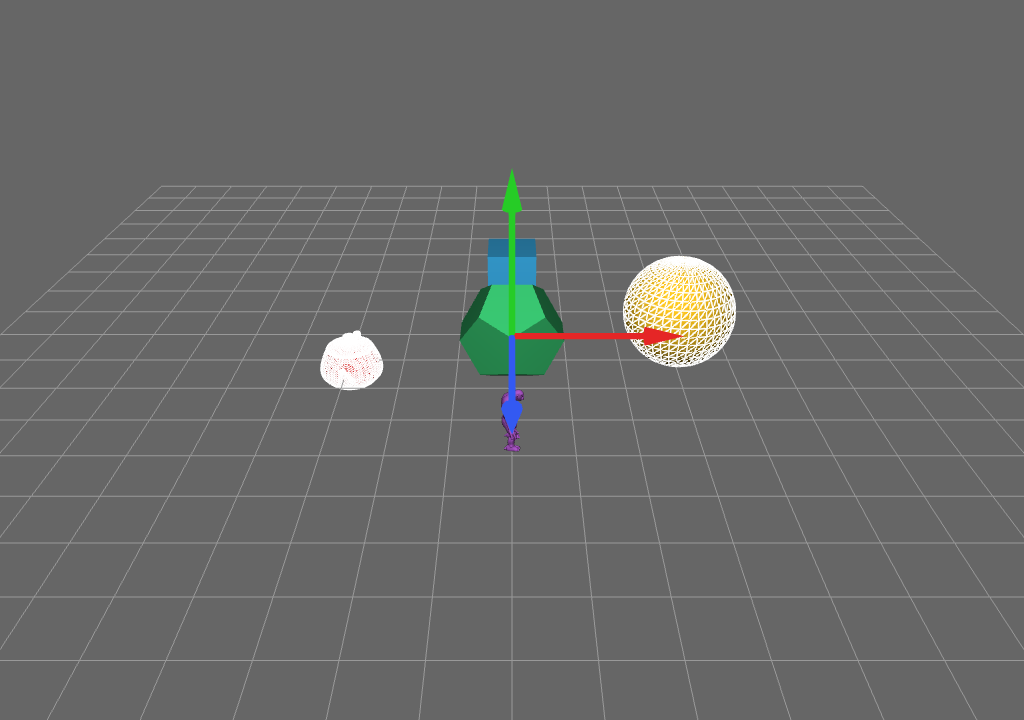
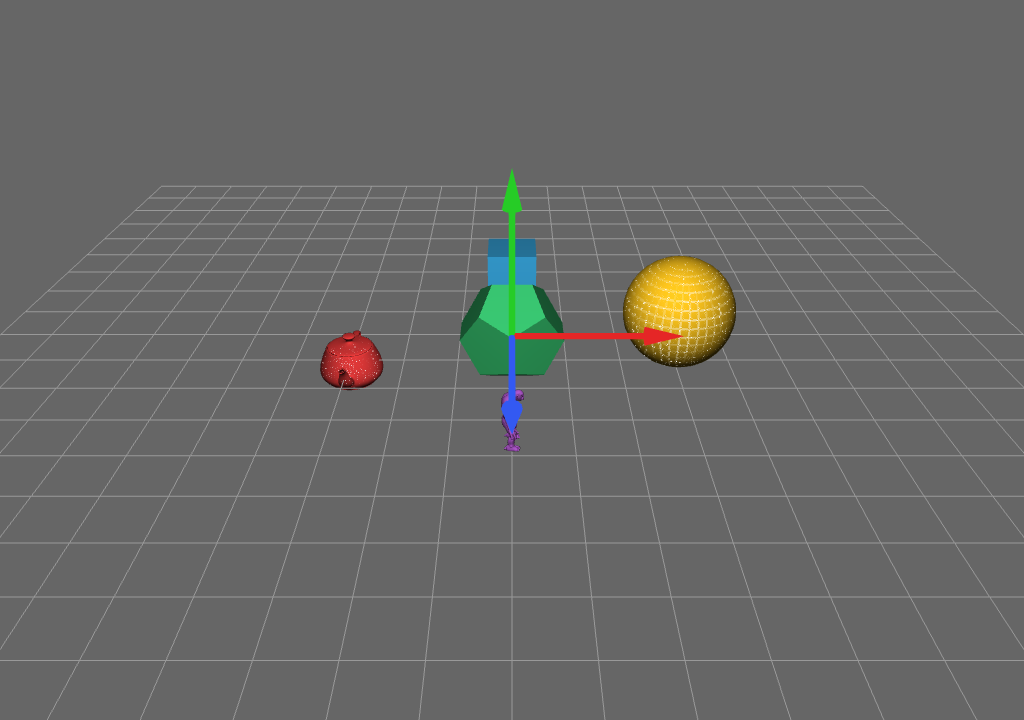
feat: adaptive wireframe thinning for dense meshes
The barycentric wireframe used a fixed edge threshold, so dense meshes
(teapot, troll) whose triangles are subpixel washed out to solid white when
selected. ObjectShader.wgsl now derives two screen-space quantities from the
edge distance:

- edge / fwidth(edge) gives a constant pixel-width line regardless of depth
- 1 / fwidth(edge) approximates the triangle's on-screen extent; the wire is
  faded out below ~4px so tiny triangles keep their shaded surface

Coarse meshes keep a crisp thin wireframe; dense meshes stay shaded and only
show wireframe on larger triangles. README documents the algorithm.

Changed region(s): [[0.5938, 0.3361, 0.7188, 0.5194], [0.3125, 0.4583, 0.375, 0.55]]

diff --git a/SelectionManipulatorWebGPU/README.md b/SelectionManipulatorWebGPU/README.md
@@ -53,9 +53,46 @@ OpenGL redraws selected objects with `glPolygonMode(GL_LINE)` and a negative
 polygon offset. WebGPU has no polygon-line mode, so `ObjectShader.wgsl` draws
 the fill and the wireframe in **one pass**: the geometry is a non-indexed
 triangle soup, so `vertex_index % 3` identifies each triangle corner and emits
-a barycentric coordinate `(1,0,0)/(0,1,0)/(0,0,1)`. In the fragment shader the
-smallest barycentric component is the distance to the nearest edge; `fwidth`
-keeps the line ~1px wide and anti-aliased. No extra vertex buffer is needed.
+a barycentric coordinate `(1,0,0)/(0,1,0)/(0,0,1)`. These interpolate across the
+triangle, and the **smallest** of the three components is the (barycentric)
+distance to the nearest edge — zero on an edge, largest at the centroid. No
+extra vertex buffer is needed.
+
+### Adaptive wireframe (thin lines for dense meshes)
+
+A naïve `edge < constant` test draws lines that are thick where a triangle is
+big on screen and thin where it is small — and for a dense mesh (the teapot has
+~14k triangles) every triangle is smaller than a pixel, so *every* fragment is
+within one line-width of an edge and the object washes out to solid white. The
+shader fixes both problems with two screen-space quantities derived from the
+edge distance:
+
+1. **Constant-thickness lines.** `fwidth(edge)` is how fast the edge distance
+   changes per pixel, so
+
+   ```wgsl
+   let dist_px = edge / fwidth(edge);   // distance to the edge, in pixels
+   var wire = 1.0 - smoothstep(thickness, thickness + 1.0, dist_px);
+   ```
+
+   makes the line a fixed `thickness` pixels wide (plus one pixel of
+   anti-aliasing) regardless of how far away or foreshortened the triangle is —
+   a near face and a far face of the same object get the same line weight.
+
+2. **Density fade.** `1.0 / fwidth(edge)` approximates how many pixels the
+   triangle spans on screen. When that extent drops to only a few pixels the
+   triangle can no longer show a readable line, so the wire is faded out:
+
+   ```wgsl
+   let extent_px = 1.0 / fwidth(edge);
+   wire = wire * smoothstep(4.0, 14.0, extent_px);   // 0 below ~4px, full by ~14px
+   ```
+
+The result: coarse meshes (cube, dodecahedron, sphere) keep a crisp thin
+wireframe, while dense meshes (teapot, troll) keep their shaded surface and only
+show wireframe on the larger triangles near their silhouette — so a selection is
+still visible without the object turning into a white blob. The `4/14`px
+thresholds and the `0.6`px `thickness` are the two knobs to tune.
 
 ### `glReadPixels` picking → offscreen render + readback
 
